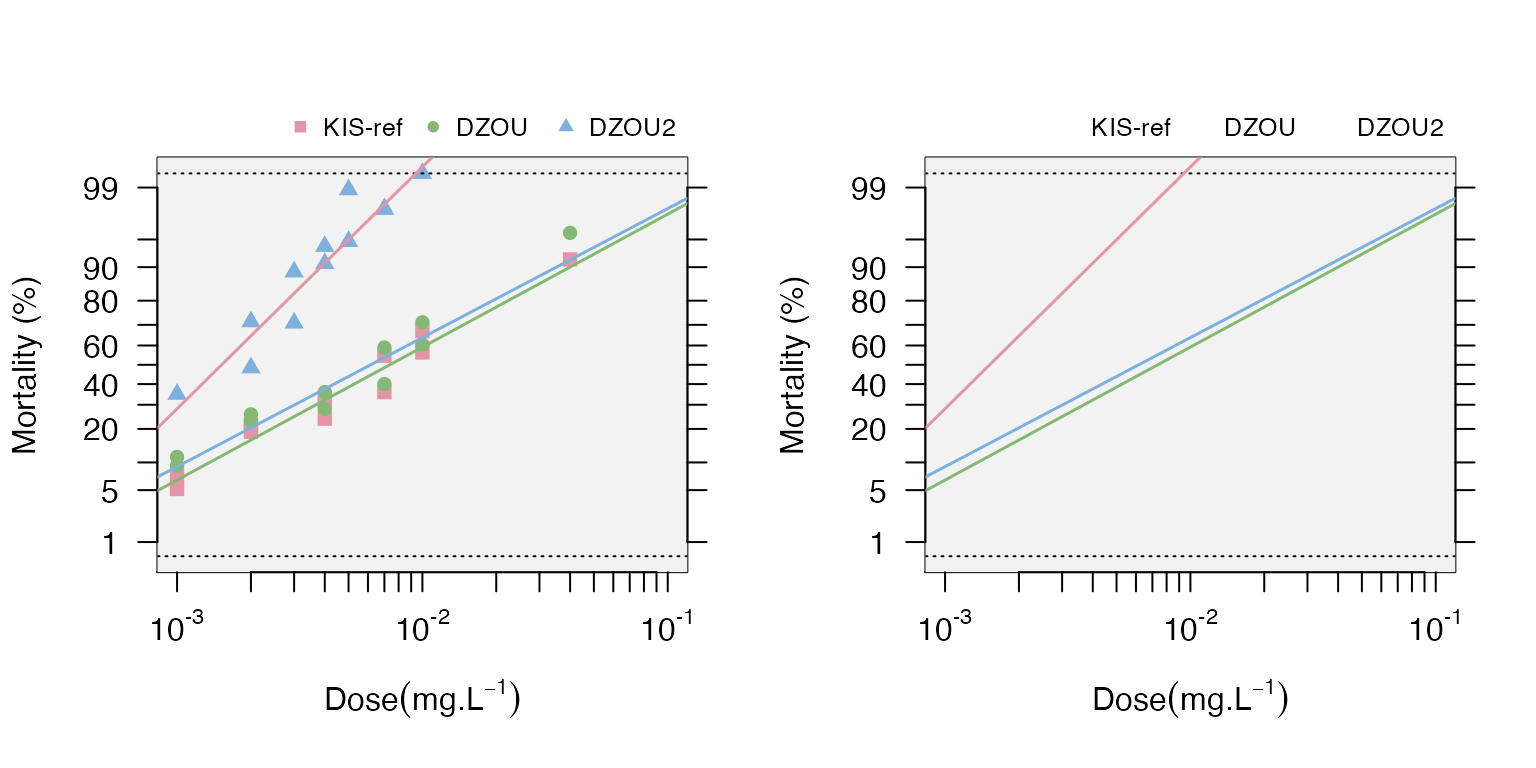
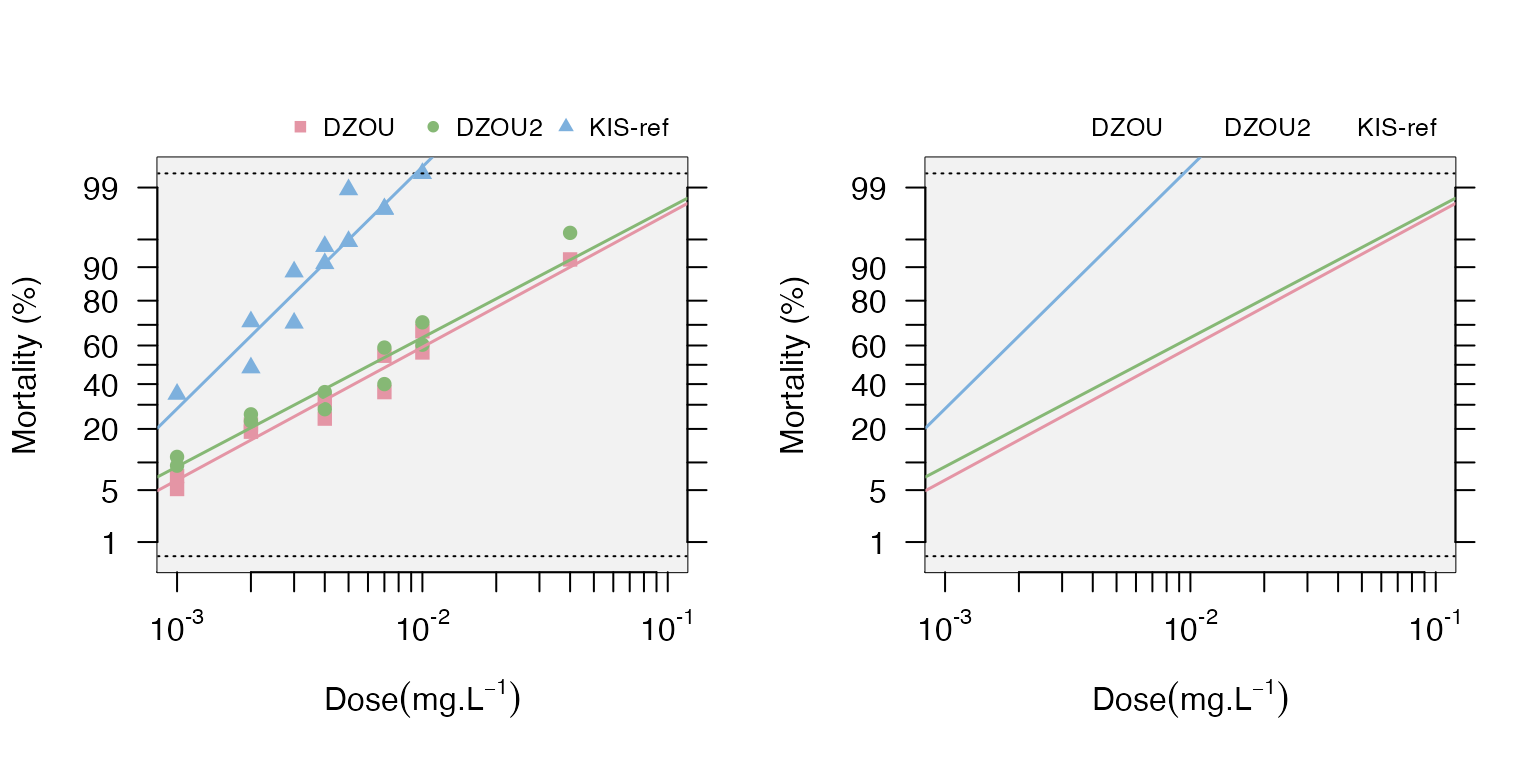
vignette bug fix

diff --git a/docs/articles/BioRssay.html b/docs/articles/BioRssay.html
@@ -136,9 +136,8 @@
 <span class="co">#&gt; 4    temephos KIS-ref 0.004    98   89         1 26/01/11     1</span>
 <span class="co">#&gt; 5    temephos KIS-ref 0.005    95   90         1 26/01/11     1</span>
 <span class="co">#&gt; 6    temephos KIS-ref 0.007    99   97         1 26/01/11     1</span>
-<span class="fu"><a href="https://rdrr.io/r/base/unique.html">unique</a></span><span class="op">(</span><span class="fu"><a href="https://rdrr.io/r/base/unique.html">unique</a></span><span class="op">(</span><span class="va">exm1</span><span class="op">$</span><span class="va">strain</span><span class="op">)</span><span class="op">)</span>
-<span class="co">#&gt; [1] KIS-ref DZOU    DZOU2  </span>
-<span class="co">#&gt; Levels: DZOU DZOU2 KIS-ref</span></code></pre></div>
+<span class="fu"><a href="https://rdrr.io/r/base/unique.html">unique</a></span><span class="op">(</span><span class="fu"><a href="https://rdrr.io/r/base/character.html">as.character</a></span><span class="op">(</span><span class="va">exm1</span><span class="op">$</span><span class="va">strain</span><span class="op">)</span><span class="op">)</span>
+<span class="co">#&gt; [1] "KIS-ref" "DZOU"    "DZOU2"</span></code></pre></div>
 <p>This example contains the mortality data of three strains (KIS, DZOU, and KIS-ref); KIS is used as the reference with suffix “ref”.</p>
 <p>The first step is to check if the controls also have considerable mortality and whether a correction should be applied to the data, followed by probid transformation (<em>we might need to explain more on why this transformation</em>). This is easily achieved with the function “probit.trans”.</p>
 <div class="sourceCode" id="cb5"><pre class="downlit sourceCode r">
@@ -167,26 +166,27 @@
 <span class="va">RR</span><span class="op">&lt;-</span><span class="fu"><a href="../reference/resist.ratio.html">resist.ratio</a></span><span class="op">(</span><span class="va">data</span><span class="op">)</span>
 <span class="va">RR</span>
 <span class="co">#&gt;                LD50     LD50min     LD50max      varLD50        LD95    LD95min</span>
-<span class="co">#&gt; KIS-ref 0.001519579 0.001163367 0.001819190 0.0006597966 0.005011012 0.00414955</span>
 <span class="co">#&gt; DZOU    0.007360928 0.006136601 0.009107134 0.0004813749 0.064493518 0.04099287</span>
 <span class="co">#&gt; DZOU2   0.006156279 0.005043721 0.007720790 0.0003991162 0.057611139 0.03537616</span>
+<span class="co">#&gt; KIS-ref 0.001519579 0.001163367 0.001819190 0.0006597966 0.005011012 0.00414955</span>
 <span class="co">#&gt;             LD95max     varLD95    Slope   SlopeSE Intercept InterceptSE</span>
-<span class="co">#&gt; KIS-ref 0.006666735 0.001109805 3.174155 0.3811593  8.945646   0.9848957</span>
 <span class="co">#&gt; DZOU    0.125240023 0.012002361 1.745048 0.1537397  3.722305   0.3579163</span>
 <span class="co">#&gt; DZOU2   0.121382718 0.010222512 1.693651 0.1657277  3.744123   0.3906964</span>
+<span class="co">#&gt; KIS-ref 0.006666735 0.001109805 3.174155 0.3811593  8.945646   0.9848957</span>
 <span class="co">#&gt;                h          g    Chi(p)     rr50  rr50max  rr50min     rr95</span>
-<span class="co">#&gt; KIS-ref 3.259672 0.07158818 0.5714766 1.000000 0.000000 0.000000  1.00000</span>
 <span class="co">#&gt; DZOU    1.905596 0.03971941 0.3606160 4.844057 5.641835 4.159087 12.87036</span>
 <span class="co">#&gt; DZOU2   2.326646 0.04899907 0.3568112 4.051305 4.692185 3.497959 11.49691</span>
+<span class="co">#&gt; KIS-ref 3.259672 0.07158818 0.5714766 1.000000 0.000000 0.000000  1.00000</span>
 <span class="co">#&gt;          rr95max   rr95min</span>
-<span class="co">#&gt; KIS-ref  0.00000  0.000000</span>
 <span class="co">#&gt; DZOU    14.99001 11.050435</span>
-<span class="co">#&gt; DZOU2   13.31562  9.926605</span></code></pre></div>
+<span class="co">#&gt; DZOU2   13.31562  9.926605</span>
+<span class="co">#&gt; KIS-ref  0.00000  0.000000</span></code></pre></div>
 <p><em>Note that we did not specify the reference strain here as it is already labeled in the data</em></p>
 <p><em>For each strain you have first the LD50 and LD95 and their upper and lower limits (95% CI), then the slope and intercept of the regression (with their standard error), the heterogeneity (h) and the g factor (“With almost all good sets of data, g will be substantially smaller than 1.0 and seldom greater than 0.4.” Finney, 1971). </em>The result of the chi test (Chi(p)) is then indicated to judge whether the data are well fitted to the regression or not: here all the p-values are over 0.05 so the fits are acceptable). <em>Finally the resistance ratios are indicated for LD50 and LD95 (RR50 and RR95). </em>As there are 3 strains, the script first tests whether they are all similar (i.e. equivalent to 1 strain) or not (3 strains vs 1 strain). Here, the test is highly significant, some strains are thus different in terms of resistance.</p>
 <p>Plotting option with confidence levels and a validity test of the regression models is also available in the function “resist.ratio”. However, we did not use it here and we will do a more comparative plotting with “mort.plot” next.</p>
 <div class="sourceCode" id="cb7"><pre class="downlit sourceCode r">
-<code class="sourceCode R"><span class="fu"><a href="https://rdrr.io/r/graphics/par.html">par</a></span><span class="op">(</span>mfrow<span class="op">=</span><span class="fu"><a href="https://rdrr.io/r/base/c.html">c</a></span><span class="op">(</span><span class="fl">1</span>,<span class="fl">2</span><span class="op">)</span><span class="op">)</span> <span class="co"># set plot rows</span>
+<code class="sourceCode R"><span class="co">#strains&lt;-levels(data$strain)</span>
+<span class="fu"><a href="https://rdrr.io/r/graphics/par.html">par</a></span><span class="op">(</span>mfrow<span class="op">=</span><span class="fu"><a href="https://rdrr.io/r/base/c.html">c</a></span><span class="op">(</span><span class="fl">1</span>,<span class="fl">2</span><span class="op">)</span><span class="op">)</span> <span class="co"># set plot rows</span>
 <span class="fu"><a href="../reference/mort.plot.html">mort.plot</a></span><span class="op">(</span><span class="va">data</span>,plot.conf<span class="op">=</span><span class="cn">FALSE</span>,test.validity<span class="op">=</span><span class="cn">FALSE</span><span class="op">)</span> <span class="co"># plot without confidence intervals and test of validity of the model</span>
 <span class="fu"><a href="../reference/mort.plot.html">mort.plot</a></span><span class="op">(</span><span class="va">data</span>,plot.conf<span class="op">=</span><span class="cn">FALSE</span>,test.validity<span class="op">=</span><span class="cn">FALSE</span>,pch<span class="op">=</span><span class="cn">NA</span><span class="op">)</span> <span class="co"># plot only the regression lines</span></code></pre></div>
 <p><img src="BioRssay_files/figure-html/unnamed-chunk-7-1.png" width="768"></p>
@@ -232,21 +232,21 @@
 <div class="sourceCode" id="cb11"><pre class="downlit sourceCode r">
 <code class="sourceCode R"><span class="fu"><a href="https://rdrr.io/r/utils/head.html">head</a></span><span class="op">(</span><span class="va">RR.b</span><span class="op">)</span>
 <span class="co">#&gt;               LD50    LD50min    LD50max     varLD50       LD95    LD95min</span>
-<span class="co">#&gt; Kisumu   0.2726414  0.2587263  0.2860428 0.022377514   0.446101   0.415979</span>
 <span class="co">#&gt; Acerkis 56.5098989 53.2114813 59.6792554 0.001786642 107.634086 100.302691</span>
 <span class="co">#&gt; AgRR5   79.1108266 74.7149834 83.1800402 0.001573892 123.408708 115.649404</span>
+<span class="co">#&gt; Kisumu   0.2726414  0.2587263  0.2860428 0.022377514   0.446101   0.415979</span>
 <span class="co">#&gt;             LD95max     varLD95    Slope   SlopeSE  Intercept InterceptSE</span>
-<span class="co">#&gt; Kisumu    0.4878805 0.144419248 7.691933 0.6055473   4.341389   0.3281966</span>
 <span class="co">#&gt; Acerkis 117.1146160 0.002410525 5.878145 0.3656493 -10.299242   0.6734320</span>
 <span class="co">#&gt; AgRR5   134.1446941 0.002449533 8.517708 0.6962015 -16.168620   1.3613946</span>
+<span class="co">#&gt; Kisumu    0.4878805 0.144419248 7.691933 0.6055473   4.341389   0.3281966</span>
 <span class="co">#&gt;                h          g       Chi(p)     rr50  rr50max  rr50min     rr95</span>
-<span class="co">#&gt; Kisumu  1.000000 0.02380791 7.672306e-24   1.0000   0.0000   0.0000   1.0000</span>
 <span class="co">#&gt; Acerkis 1.000000 0.01486432 9.995387e-01 207.2682 418.0336 102.7671 241.2774</span>
 <span class="co">#&gt; AgRR5   1.612638 0.02786453 9.609371e-01 290.1644 583.4161 144.3144 276.6385</span>
+<span class="co">#&gt; Kisumu  1.000000 0.02380791 7.672306e-24   1.0000   0.0000   0.0000   1.0000</span>
 <span class="co">#&gt;          rr95max  rr95min</span>
-<span class="co">#&gt; Kisumu    0.0000   0.0000</span>
 <span class="co">#&gt; Acerkis 486.6258 119.6294</span>
-<span class="co">#&gt; AgRR5   556.2204 137.5873</span></code></pre></div>
+<span class="co">#&gt; AgRR5   556.2204 137.5873</span>
+<span class="co">#&gt; Kisumu    0.0000   0.0000</span></code></pre></div>
 <p>Note that we have enabled the arguments “plot=” with “plot.conf=” and “test.validity=”. When the regression is not valid (Chi-square significance) for a strain, it will be plotted without the regression, as in this example “Kisumu”.</p>
 <div class="sourceCode" id="cb12"><pre class="downlit sourceCode r">
 <code class="sourceCode R"><span class="co">#test the validity of the regression models</span>
@@ -254,9 +254,9 @@
 <span class="va">t.models</span>
 <span class="co">#&gt; $model</span>
 <span class="co">#&gt;   strain1 strain2           model.pval          deviance df bonferroni</span>
-<span class="co">#&gt; 1  Kisumu Acerkis 4.09605796743876e-78 -1220.98742604214 -2        sig</span>
-<span class="co">#&gt; 2  Kisumu   AgRR5 3.52611879574658e-84 -1433.09904360371 -2        sig</span>
-<span class="co">#&gt; 3 Acerkis   AgRR5 9.81944629906017e-18 -93.3705086548187 -2        sig</span></code></pre></div>
+<span class="co">#&gt; 1 Acerkis   AgRR5 9.81944629906017e-18 -93.3705086548187 -2        sig</span>
+<span class="co">#&gt; 2 Acerkis  Kisumu 4.09605796743876e-78 -1220.98742604214 -2        sig</span>
+<span class="co">#&gt; 3   AgRR5  Kisumu 3.52611879574658e-84 -1433.09904360371 -2        sig</span></code></pre></div>
 <p>These steps can be repeated for separate insecticides in the example 2 one by one or in a loop (e.g. for loop)</p>
 </div>
 </div>

diff --git a/docs/reference/resist.ratio.html b/docs/reference/resist.ratio.html
@@ -180,21 +180,21 @@
 <span class='va'>data</span><span class='op'>&lt;-</span><span class='va'>transd</span><span class='op'>$</span><span class='va'>tr.data</span>
 <span class='fu'>resist.ratio</span><span class='op'>(</span><span class='va'>data</span>,plot<span class='op'>=</span><span class='cn'>TRUE</span><span class='op'>)</span>
 </div><div class='img'><img src='resist.ratio-1.png' alt='' width='700' height='433' /></div><div class='output co'>#&gt;                LD50     LD50min     LD50max      varLD50        LD95    LD95min
-#&gt; KIS-ref 0.001519579 0.001163367 0.001819190 0.0006597966 0.005011012 0.00414955
 #&gt; DZOU    0.007360928 0.006136601 0.009107134 0.0004813749 0.064493518 0.04099287
 #&gt; DZOU2   0.006156279 0.005043721 0.007720790 0.0003991162 0.057611139 0.03537616
+#&gt; KIS-ref 0.001519579 0.001163367 0.001819190 0.0006597966 0.005011012 0.00414955
 #&gt;             LD95max     varLD95    Slope   SlopeSE Intercept InterceptSE
-#&gt; KIS-ref 0.006666735 0.001109805 3.174155 0.3811593  8.945646   0.9848957
 #&gt; DZOU    0.125240023 0.012002361 1.745048 0.1537397  3.722305   0.3579163
 #&gt; DZOU2   0.121382718 0.010222512 1.693651 0.1657277  3.744123   0.3906964
+#&gt; KIS-ref 0.006666735 0.001109805 3.174155 0.3811593  8.945646   0.9848957
 #&gt;                h          g    Chi(p)     rr50  rr50max  rr50min     rr95
-#&gt; KIS-ref 3.259672 0.07158818 0.5714766 1.000000 0.000000 0.000000  1.00000
 #&gt; DZOU    1.905596 0.03971941 0.3606160 4.844057 5.641835 4.159087 12.87036
 #&gt; DZOU2   2.326646 0.04899907 0.3568112 4.051305 4.692185 3.497959 11.49691
+#&gt; KIS-ref 3.259672 0.07158818 0.5714766 1.000000 0.000000 0.000000  1.00000
 #&gt;          rr95max   rr95min
-#&gt; KIS-ref  0.00000  0.000000
 #&gt; DZOU    14.99001 11.050435
-#&gt; DZOU2   13.31562  9.926605</div><div class='input'>
+#&gt; DZOU2   13.31562  9.926605
+#&gt; KIS-ref  0.00000  0.000000</div><div class='input'>
 </div></pre>
   </div>
   <div class="col-md-3 hidden-xs hidden-sm" id="pkgdown-sidebar">

diff --git a/docs/reference/model.signif.html b/docs/reference/model.signif.html
@@ -140,9 +140,9 @@
 <span class='fu'>model.signif</span><span class='op'>(</span><span class='va'>data</span><span class='op'>)</span>
 </div><div class='output co'>#&gt; $model
 #&gt;   strain1 strain2           model.pval          deviance df bonferroni
-#&gt; 1 KIS-ref    DZOU  8.3588934657195e-61 -714.373451385791 -2        sig
-#&gt; 2 KIS-ref   DZOU2 3.15241148845391e-48 -603.931258358858 -2        sig
-#&gt; 3    DZOU   DZOU2    0.264023226942502 -5.52847606655654 -2    non-sig
+#&gt; 1    DZOU   DZOU2    0.264023226942502 -5.52847606655654 -2        sig
+#&gt; 2    DZOU KIS-ref  8.3588934657195e-61 -714.373451385791 -2        sig
+#&gt; 3   DZOU2 KIS-ref 3.15241148845391e-48 -603.931258358858 -2    non-sig
 #&gt; </div><div class='input'>
 </div></pre>
   </div>
